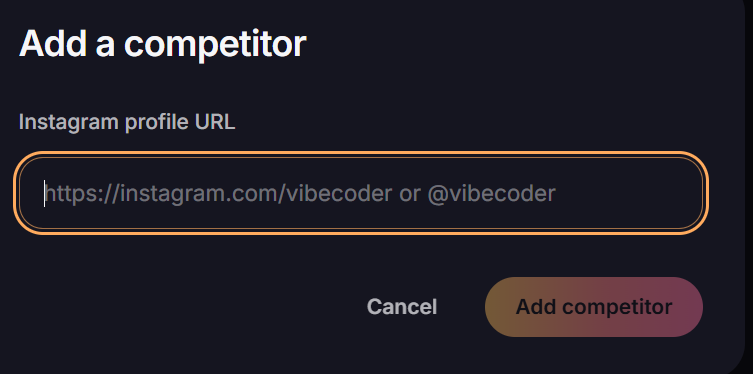
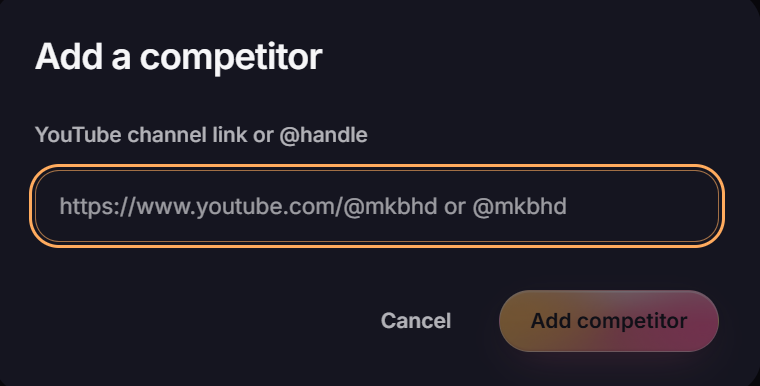
Replace the add-competitor screenshot and drop the old-version note
The Add a competitor window now shows the YouTube channel input. Every
screenshot in the README is now from the current ClipRemix app.

Claude-Session: https://claude.ai/code/session_01KJiisy2pjBANFoHMe2gvmn

diff --git a/README.md b/README.md
@@ -27,8 +27,6 @@ Track competitor YouTube channels, pull their latest videos into a library, gene
 | --- | --- | --- |
 | ![Dashboard top videos and channels](docs/screenshots/dashboard-videos.webp) | ![Dashboard totals and progress](docs/screenshots/dashboard-totals.png) | ![Dashboard recent videos](docs/screenshots/dashboard-recent.png) |
 
-The Add a competitor screenshot still shows the earlier Instagram version.
-
 ## Run it locally
 
 Requirements: [uv](https://docs.astral.sh/uv/), Node.js 20+, and `make`.
